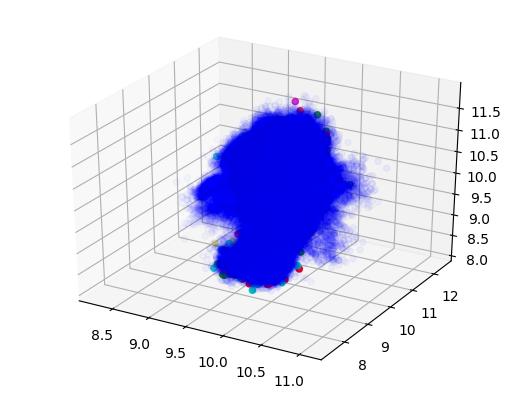
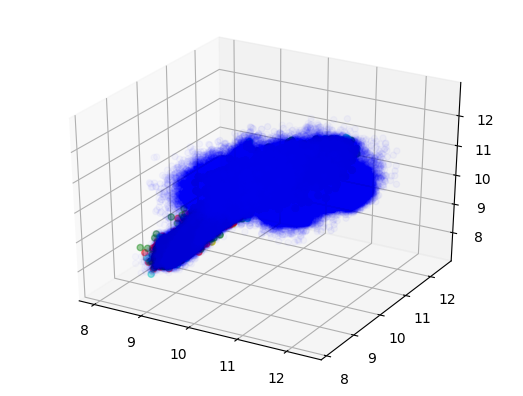
add

diff --git a/inference.py b/inference.py
@@ -54,7 +54,7 @@ def save_image_with_features_as_color(pred):
 if __name__ == '__main__':
 
     parser = argparse.ArgumentParser()
-    parser.add_argument('-m', '--modeldir', default='trained_model', help="Directory of trained model")
+    parser.add_argument('-m', '--modeldir', default='saved_model/lane', help="Directory of trained model")
     parser.add_argument('-i', '--indir', default='data/test_images',
                         help='Input image directory (jpg format)')
     parser.add_argument('-o', '--outdir', default='log',
@@ -70,6 +70,7 @@ if __name__ == '__main__':
         os.mkdir(output_dir)
 
     image_paths = glob(os.path.join(data_dir, '*.jpg'))
+    image_paths += glob(os.path.join(data_dir, '*.png'))
     image_paths.sort()
 
     num_images = len(image_paths)

diff --git a/datagenerator.py b/datagenerator.py
@@ -130,7 +130,7 @@ def get_lane_f_paths(lane_list_f):
         for l in f.readlines():
             l = l.strip().split(' ')
             image_files.append(l[0])
-            gt_files.append(l[-1])
+            gt_files.append(l[-2])
     log.info('Find {} images, {} gts.'.format(len(image_files), len(gt_files)))
     return image_files, gt_files
 

diff --git a/README.md b/README.md
@@ -5,3 +5,7 @@
 ![](https://i.loli.net/2018/09/04/5b8df3b24853b.png)
 
 可以看到，在多条不同车道线检测上效果还不错。车辆和行人的实例分割在测试中。
+
+*2018-9-11*
+
+貌似训练车道线的时候数据集错了。我应该用mask，用成了edges，导致最后的结果无法进行聚类
